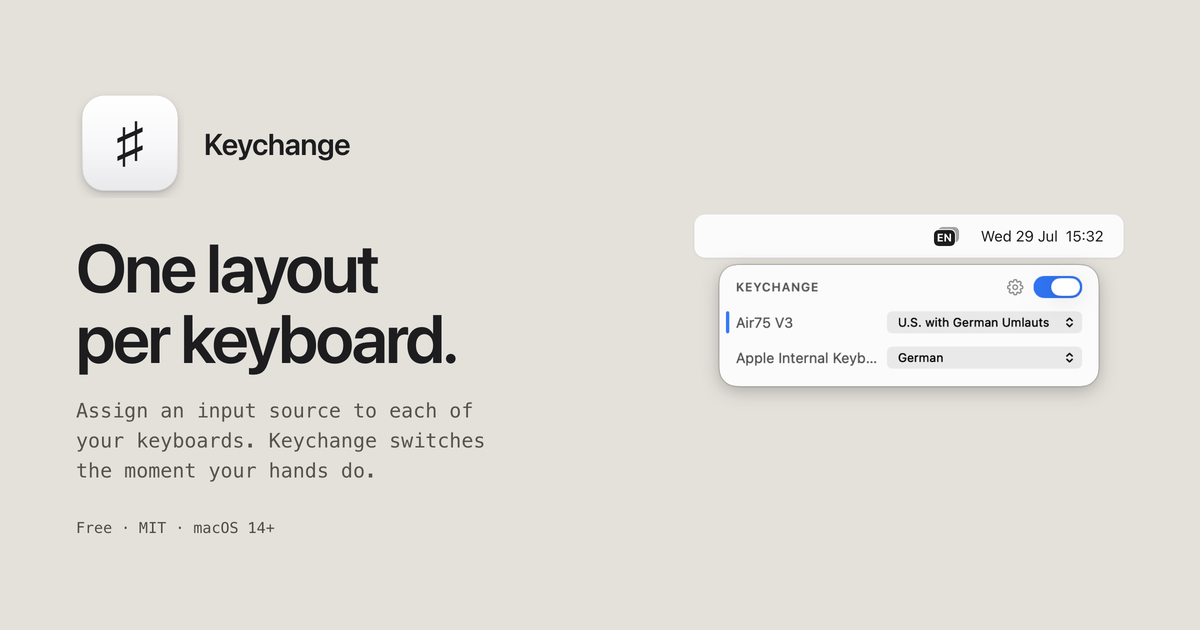
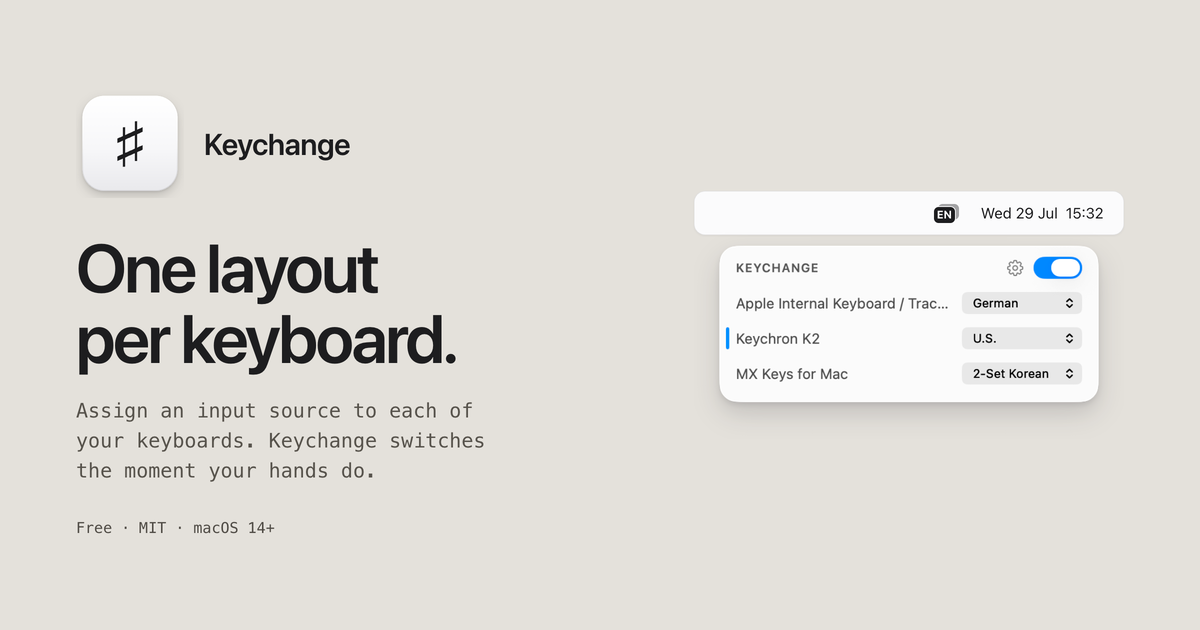
Refresh the screenshots with three mock keyboards
panel.png now shows Apple Internal Keyboard, Keychron K2 and MX Keys
for Mac set to German, U.S. and 2-Set Korean (captured from the
screenshot-mock-data branch build), with the icon's own two-layer
shadow composited in place of the system window shadow. og.png is
regenerated from it, the site's shot margins match the new capture,
and the unused beige screenshot.png is gone.

Changed region(s): [[0.555, 0.3016, 0.9558, 0.6635]]

diff --git a/docs/index.html b/docs/index.html
@@ -16,7 +16,7 @@
 <meta property="og:image" content="https://keychange.dev/og.png">
 <meta property="og:image:width" content="1200">
 <meta property="og:image:height" content="630">
-<meta property="og:image:alt" content="Keychange — one layout per keyboard. The menu bar item and its popover, listing two keyboards with their input sources.">
+<meta property="og:image:alt" content="Keychange — one layout per keyboard. The menu bar item and its popover, listing three keyboards with their input sources.">
 <meta name="twitter:card" content="summary_large_image">
 <link rel="stylesheet" href="style.css">
 </head>
@@ -64,8 +64,8 @@
         <span class="mb-badge" aria-label="Keychange in the menu bar, showing EN"><i></i><b>EN</b></span>
         <span class="mb-dim" id="clock">Wed 29. Jul&nbsp;&nbsp;15:32</span>
       </div>
-      <img src="panel.png" width="390" height="156"
-           alt="The Keychange popover listing two keyboards: Air75 V3 set to U.S. with German Umlauts, and the built-in keyboard set to German.">
+      <img src="panel.png" width="390" height="188"
+           alt="The Keychange popover listing three keyboards: the built-in keyboard set to German, a Keychron K2 set to U.S., and MX Keys set to 2-Set Korean.">
     </div>
   </header>
 

diff --git a/docs/og.html b/docs/og.html
@@ -53,7 +53,7 @@
   .meta { font-size: 15px; color: var(--footer); margin: 30px 0 0; }
   /* The hero's own shot, one notch larger so it holds its weight on a card. */
   .shot { justify-self: end; width: 430px; }
-  .shot img { display: block; width: 430px; margin: -14px 0 0 auto; }
+  .shot img { display: block; width: 430px; margin: -3px 0 0 auto; }
   .menubar { gap: 22px; height: 44px; padding: 0 20px; font-size: 15px; }
   .mb-badge { width: 25px; height: 20px; }
   .mb-badge i, .mb-badge b { width: 21px; height: 15.8px; border-radius: 4.6px; }

diff --git a/docs/style.css b/docs/style.css
@@ -165,9 +165,9 @@ h1 {
 .hero-shot img {
   display: block;
   width: 390px;
-  /* The capture carries 23px of transparent shadow margin; -13px top puts the
-     panel 6px under the bar, where macOS draws it. */
-  margin: -13px 0 0 auto;
+  /* The capture carries ~12px of transparent shadow margin; -2px top puts the
+     panel 10px under the bar, where macOS draws it. */
+  margin: -2px 0 0 auto;
 }
 
 

diff --git a/README.md b/README.md
@@ -15,7 +15,7 @@
 </p>
 
 <p align="center">
-  <img src="docs/panel.png" width="390" alt="The Keychange popover listing two keyboards, each with its own input source.">
+  <img src="docs/panel.png" width="390" alt="The Keychange popover listing three keyboards, each with its own input source.">
 </p>
 
 macOS can switch input sources per app or with a shortcut — but never per keyboard. If your
